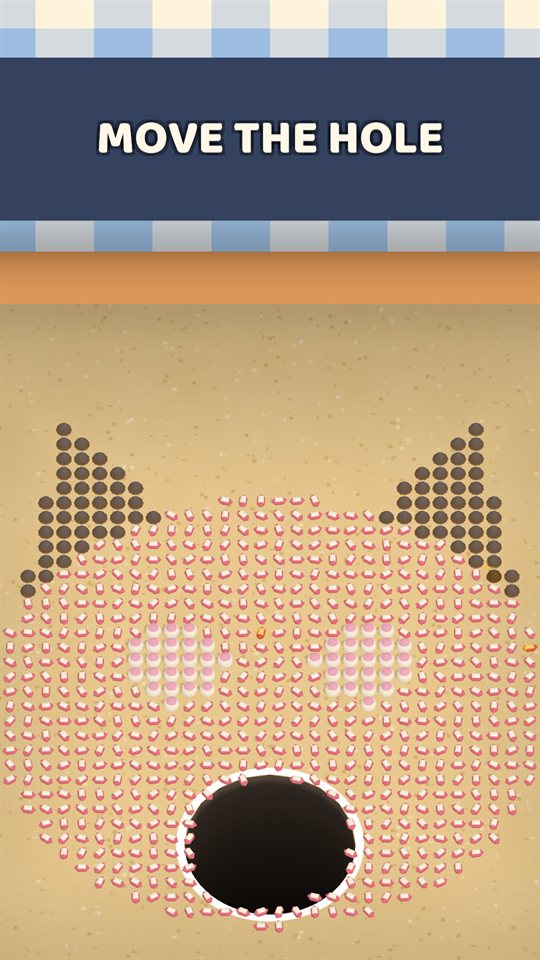
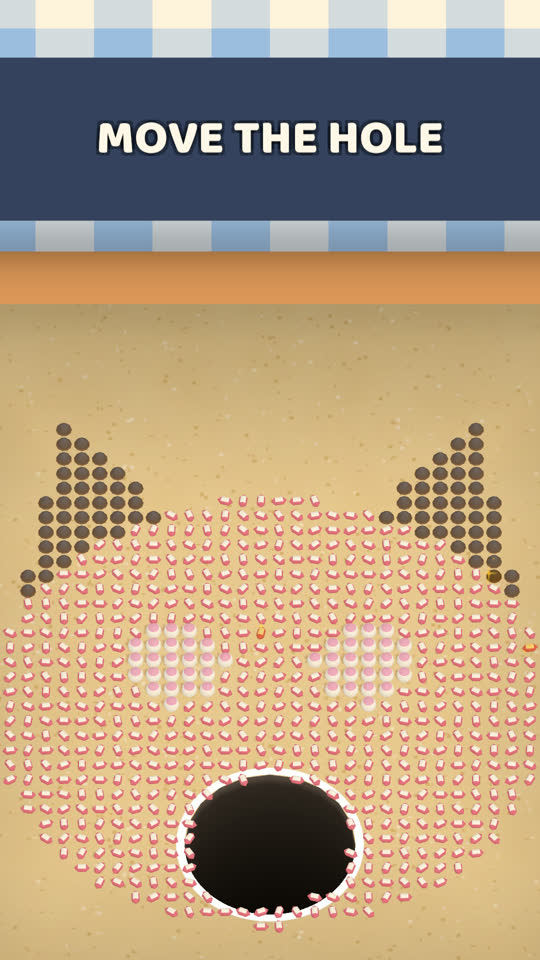
Hole Crunch: city and world screenshots
The third and fourth screenshots are now the City and World chapters (a fire engine going into a city street,
a pyramid and windmills going into a meadow among castles and islands), from the game's refreshed store shots.
The star picture board drops out, since the cat already shows a picture board. The about section says what
comes after the bakery.

Changed region(s): [[0.8889, 0.5938, 0.9185, 0.625]]

diff --git a/hole-crunch/index.html b/hole-crunch/index.html
@@ -35,14 +35,16 @@
   <ul class="shots" aria-label="Screenshots">
     <li><img src="/hole-crunch/img/shot-01.jpg" alt="The hole starting small on a board of sprinkles laid out as a cat" width="540" height="960" loading="lazy"></li>
     <li><img src="/hole-crunch/img/shot-02.jpg" alt="A bakery table of cakes, donuts and macarons around the hole" width="540" height="960" loading="lazy"></li>
-    <li><img src="/hole-crunch/img/shot-03.jpg" alt="A bigger hole swallowing treats beside a layered cake" width="540" height="960" loading="lazy"></li>
-    <li><img src="/hole-crunch/img/shot-05.jpg" alt="A board of sprinkles arranged into a star" width="540" height="960" loading="lazy"></li>
+    <li><img src="/hole-crunch/img/shot-03.jpg" alt="A big hole in a city street swallowing a fire engine beside an office block" width="540" height="960" loading="lazy"></li>
+    <li><img src="/hole-crunch/img/shot-04.jpg" alt="A huge hole swallowing a pyramid and windmills between a castle, a mountain and an island" width="540" height="960" loading="lazy"></li>
   </ul>
 
   <section aria-labelledby="about-title">
     <h2 id="about-title">About the game</h2>
     <p>You start as a hole barely big enough for a sprinkle. Every donut, macaron and croissant you swallow makes you
       bigger, until the cupcakes, the tarts and finally the tiered cake drop in too.</p>
+    <p>Clear the bakery and the city is next: traffic cones, cars, fire engines and whole office blocks. After that,
+      the world: castles, pyramids, volcanoes and tropical islands.</p>
     <ul class="features">
       <li>Tables laid out with care: rows of macarons, towers of donuts, and boards where the treats form a picture.</li>
       <li>Big treats only fit once you have grown into them, so plan your route.</li>
